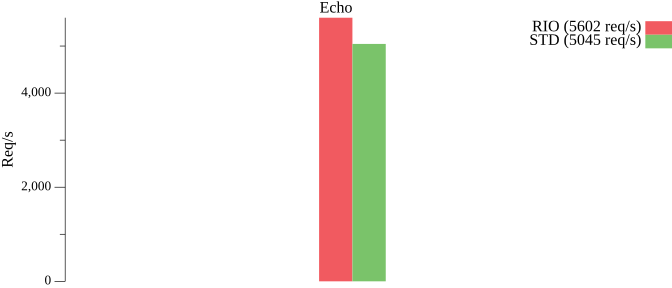
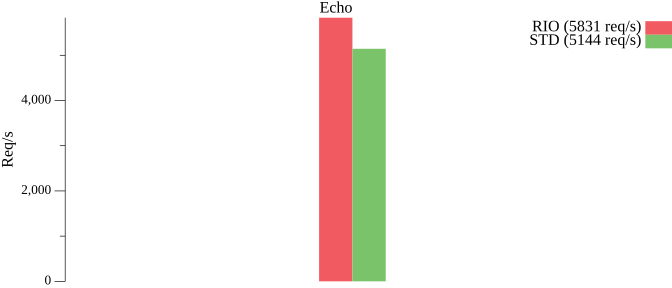
mod

diff --git a/README.md b/README.md
@@ -9,7 +9,9 @@ Linux 内核版本需要`>= 5.14`，推荐版本为`>= 6.1`。
 ## 性能
 测试环境：Win11（WSL2）、内核（6.6.36.6-microsoft-standard-WSL2）、CPU（13600K）。
 
-基于默认参数的测试，RIO 相比 STD（标准库）约快10%，详见 [Benchmark](https://github.com/brickingsoft/rio_examples/tree/main/benchmark) 。
+基于默认参数的测试，10线程，每线程1000链接，共计10000链接。
+
+RIO 相比 STD（标准库）约快13%，详见 [Benchmark](https://github.com/brickingsoft/rio_examples/tree/main/benchmark) 。
 
 注意：CurveWaitTransmission 在不同环境下的性能体现是不同的，需按需调整来发挥出高效的性能。 
 
